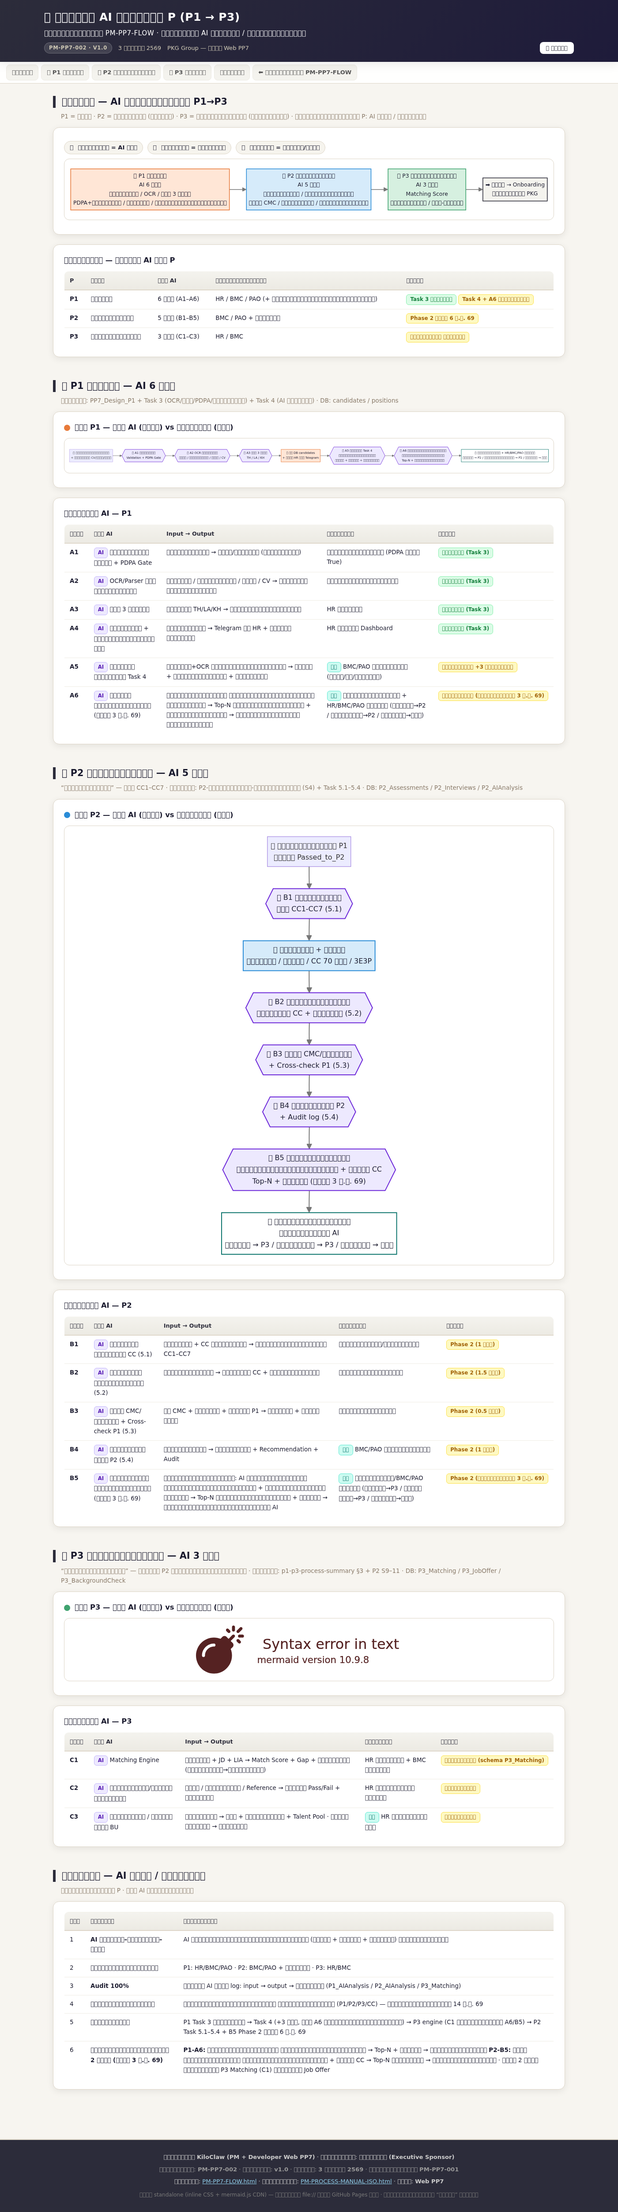
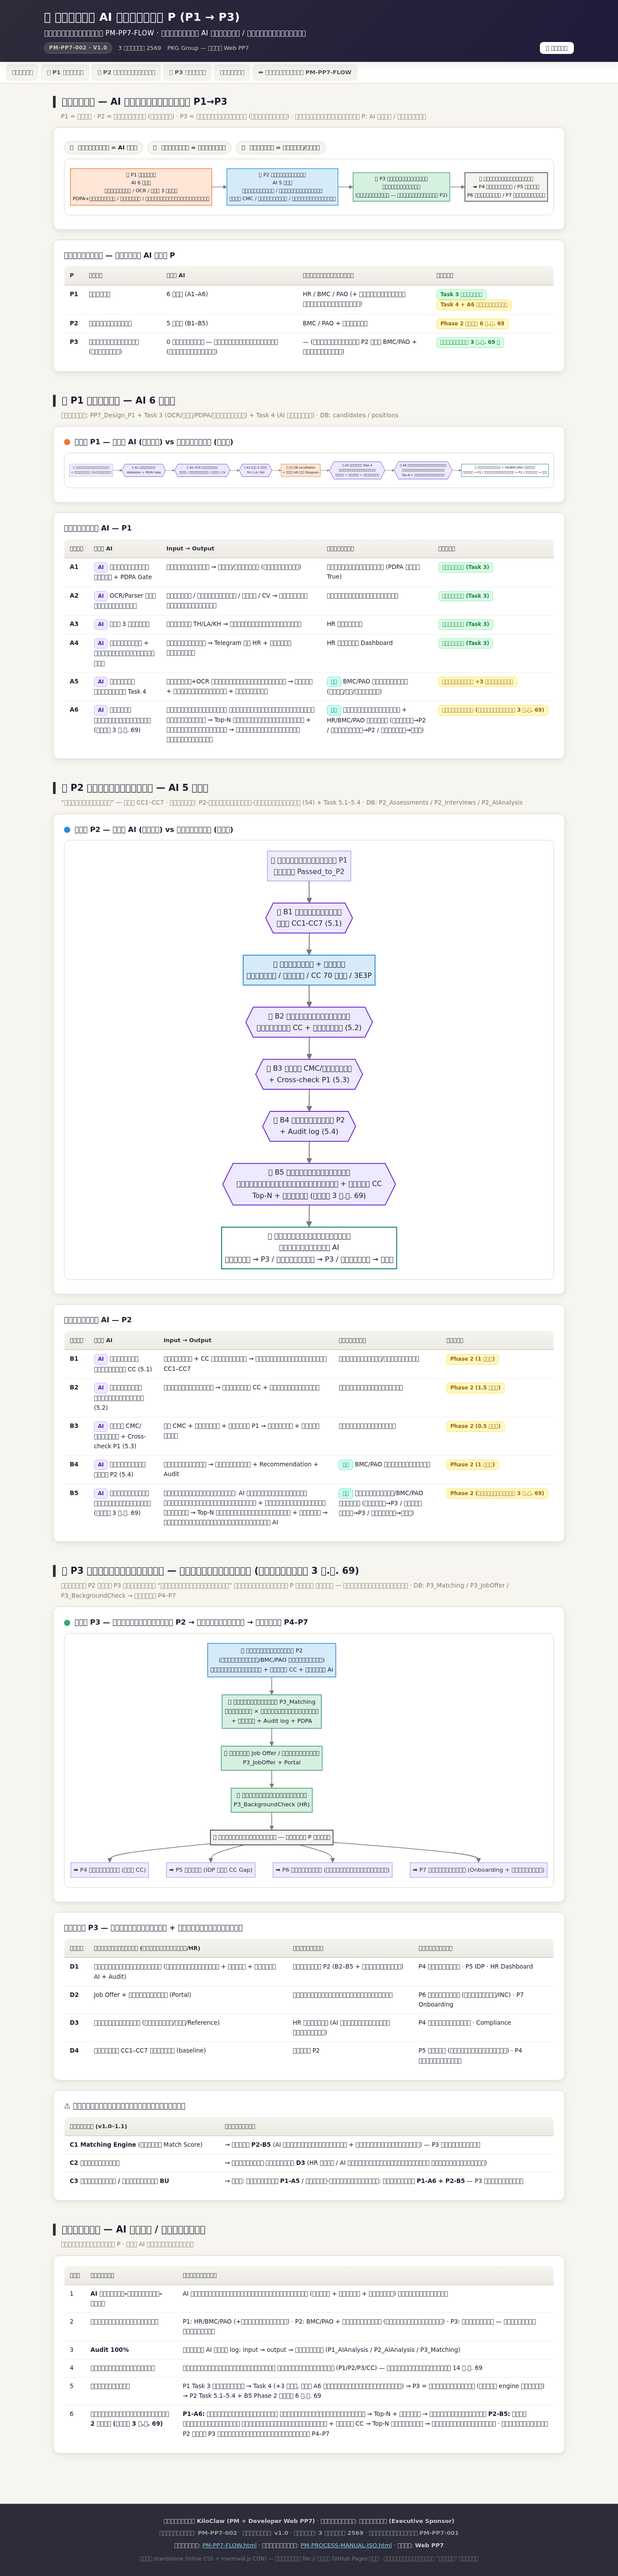
refactor(flow): นิยาม P3 ใหม่ (สั่งพี่ปกรณ์ 3 ต.ค. 69) — จบ P2 แล้ว P3 เป็นเพียงบันทึกผลลงฐานเพื่อใช้ใน P4-P7 ตัด C1-C3 ออกจากจุดตัดสิน (Matching→B5, ปิด→A5, ส่งต่อ→A6/B5) อัปเดต PM-PP7-FLOW + AI-POINTS v1.2 + PNG

Changed region(s): [[0.0, 0.0, 1.0, 0.9974]]

diff --git a/docs/PM-PP7-AI-POINTS.html b/docs/PM-PP7-AI-POINTS.html
@@ -88,9 +88,9 @@ tbody tr:last-child td{border-bottom:0;}
 flowchart LR
     P1["🟠 P1 แสวงหา<br/>AI 6 จุด<br/>ตรวจฟอร์ม / OCR / แปล 3 ภาษา<br/>PDPA+แจ้งเตือน / คัดกรอง / แนะนำตำแหน่งทางเลือก"]
     P2["🔵 P2 หยั่งประเมิน<br/>AI 5 จุด<br/>สร้างคำถาม / วิเคราะห์บันทึก<br/>สรุป CMC / ร่างรายงาน / แนะนำบทบาทใหม่"]
-    P3["🟢 P3 จับคู่คนกับงาน<br/>AI 3 จุด<br/>Matching Score<br/>ตรวจประวัติ / ปิด-ส่งต่อ"]
+    P3["🟢 P3 จับคู่คนกับงาน<br/>บันทึกผลลงฐาน<br/>(ไม่ตัดสินใจ — รับผลตัดสินจาก P2)"]
     P1 --> P2 --> P3
-    P3 --> OUT["➡ ผ่าน → Onboarding<br/>เป็นสมาชิก PKG"]
+    P3 --> OUT["📦 ฐานข้อมูลพร้อมใช้<br/>➡ P4 ประเมินผล / P5 พัฒนา<br/>P6 ค่าตอบแทน / P7 คุณภาพชีวิต"]
     style P1 fill:#ffe6d6,stroke:#e87a3a,stroke-width:2px,color:#1a1a2e
     style P2 fill:#d6ebfa,stroke:#2a8cd7,stroke-width:2px,color:#1a1a2e
     style P3 fill:#d6f0e0,stroke:#3fa36f,stroke-width:2px,color:#1a1a2e
@@ -104,7 +104,7 @@ flowchart LR
       <tbody>
         <tr><td><b>P1</b></td><td>แสวงหา</td><td>6 จุด (A1–A6)</td><td>HR / BMC / PAO (+ ผู้สมัครเลือกตำแหน่งทางเลือก)</td><td><span class="tag tag-done">Task 3 ทำแล้ว</span> <span class="tag tag-wait">Task 4 + A6 ออกแบบแล้ว</span></td></tr>
         <tr><td><b>P2</b></td><td>หยั่งประเมิน</td><td>5 จุด (B1–B5)</td><td>BMC / PAO + กรรมการ</td><td><span class="tag tag-wait">Phase 2 หลัง 6 พ.ย. 69</span></td></tr>
-        <tr><td><b>P3</b></td><td>จับคู่คนกับงาน</td><td>3 จุด (C1–C3)</td><td>HR / BMC</td><td><span class="tag tag-wait">ออกแบบแล้ว รอพัฒนา</span></td></tr>
+        <tr><td><b>P3</b></td><td>จับคู่คนกับงาน (บันทึกผล)</td><td>0 จุดตัดสิน — บันทึกผลอย่างเดียว (ระบบอัตโนมัติ)</td><td>— (ผลตัดสินจบที่ P2 โดย BMC/PAO + ทีมสัมภาษณ์)</td><td><span class="tag tag-done">นิยามใหม่ 3 ต.ค. 69 ✅</span></td></tr>
       </tbody>
     </table>
   </div>
@@ -195,39 +195,50 @@ flowchart TD
 
 <!-- P3 -->
 <section id="section-p3">
-  <h2><span class="dot" style="background:var(--p3)"></span>🟢 P3 จับคู่คนกับงาน — AI 3 จุด</h2>
-  <p class="sub">“ประเมินก่อนทำงาน” — คนผ่าน P2 แล้วเหมาะกับงานนี้ไหม · อ้างอิง: p1-p3-process-summary §3 + P2 S9–11 · DB: P3_Matching / P3_JobOffer / P3_BackgroundCheck</p>
+  <h2><span class="dot" style="background:var(--p3)"></span>🟢 P3 จับคู่คนกับงาน — บันทึกผลลงฐาน (นิยามใหม่ 3 ต.ค. 69)</h2>
+  <p class="sub">เมื่อจบ P2 แล้ว P3 เป็นเพียง “บันทึกผลลงฐานข้อมูล” เพื่อนำไปใช้ใน P อื่นๆ ต่อไป — ไม่มีการตัดสินใหม่ · DB: P3_Matching / P3_JobOffer / P3_BackgroundCheck → เชื่อม P4–P7</p>
   <div class="card">
-    <h3><span class="dot" style="background:var(--p3)"></span>ผัง P3 — จุด AI (ม่วง) vs คนตัดสิน (ขาว)</h3>
+    <h3><span class="dot" style="background:var(--p3)"></span>ผัง P3 — รับผลตัดสินจาก P2 → บันทึกลงฐาน → ส่งต่อ P4–P7</h3>
     <div class="mermaid">
 flowchart TD
-    A["📥 รับจาก P2<br/>โปรไฟล์ + คะแนน CC"]
-    B{{"🤖 C1 Matching Engine<br/>ทักษะ 30 + CC 40<br/>ประสบการณ์ 20 + LIA 10"}}
-    C{"Match Score?"}
-    D["📄 สร้าง Job Offer<br/>Portal ตอบรับออนไลน์"]
-    E["🔄 เหมาะ BU อื่น<br/>ส่งต่ออัตโนมัติ"]
-    X["🔚 ปิดใบสมัคร<br/>แจ้งผลสุภาพ + Talent Pool"]
-    F{{"🤖 C2 ตรวจประวัติ<br/>การศึกษา / งาน / Reference"}}
-    G["👥 HR/BMC อนุมัติสุดท้าย<br/>→ Onboarding"]}
-    A --> B --> C
-    C -->|สูง| D
-    C -->|เหมาะ BU อื่น| E
-    C -->|ต่ำ| X
-    D --> F --> G
-    style B fill:#ede9fe,stroke:#6d28d9,stroke-width:2px,color:#1a1a2e
-    style F fill:#ede9fe,stroke:#6d28d9,stroke-width:2px,color:#1a1a2e
-    style G fill:#ffffff,stroke:#0f766e,stroke-width:2px,color:#1a1a2e
+    A["📥 รับผลตัดสินจาก P2<br/>(ทีมสัมภาษณ์/BMC/PAO ตัดสินแล้ว)<br/>ตำแหน่งสุดท้าย + คะแนน CC + เหตุผล AI"]
+    B["📝 บันทึกผลลงฐาน P3_Matching<br/>ผู้สมัคร × ตำแหน่งที่จับคู่<br/>+ คะแนน + Audit log + PDPA"]
+    C["📄 บันทึก Job Offer / สถานะตอบรับ<br/>P3_JobOffer + Portal"]
+    D["🔍 บันทึกผลตรวจประวัติ<br/>P3_BackgroundCheck (HR)"]
+    E["📦 ฐานข้อมูลพร้อมใช้ — ส่งต่อ P อื่นๆ"]
+    F["➡ P4 ประเมินผล (ตาม CC)"]
+    G["➡ P5 พัฒนา (IDP ตาม CC Gap)"]
+    H["➡ P6 ค่าตอบแทน (โครงสร้างเงินเดือน)"]
+    I["➡ P7 คุณภาพชีวิต (Onboarding + สวัสดิการ)"]
+    A --> B --> C --> D --> E
+    E --> F & G & H & I
+    style A fill:#d6ebfa,stroke:#2a8cd7,stroke-width:2px,color:#1a1a2e
+    style B fill:#d6f0e0,stroke:#3fa36f,stroke-width:2px,color:#1a1a2e
+    style C fill:#d6f0e0,stroke:#3fa36f,stroke-width:2px,color:#1a1a2e
     style D fill:#d6f0e0,stroke:#3fa36f,stroke-width:2px,color:#1a1a2e
+    style E fill:#f4f3ee,stroke:#2c2c3a,stroke-width:2px,color:#1a1a2e
     </div>
   </div>
   <div class="card">
-    <h3>ตารางจุด AI — P3</h3>
+    <h3>ตาราง P3 — สิ่งที่บันทึก + ผู้ใช้ข้อมูลต่อ</h3>
     <table>
-      <thead><tr><th>รหัส</th><th>จุด AI</th><th>Input → Output</th><th>คนตัดสิน</th><th>สถานะ</th></tr></thead>
+      <thead><tr><th>รหัส</th><th>สิ่งที่บันทึก (ระบบอัตโนมัติ/HR)</th><th>ข้อมูลจาก</th><th>นำไปใช้ใน</th></tr></thead>
       <tbody>
-        <tr><td><b>C1</b></td><td><span class="tag tag-ai">AI</span> Matching Engine</td><td>โปรไฟล์ + JD + LIA → Match Score + Gap + คำแนะนำ (เหมาะสมมาก→ไม่เหมาะสม)</td><td>HR ดูประกอบ + BMC อนุมัติ</td><td><span class="tag tag-wait">ออกแบบแล้ว (schema P3_Matching)</span></td></tr>
-        <tr><td><b>C2</b></td><td><span class="tag tag-ai">AI</span> ตรวจประวัติ/เอกสารเบื้องต้น</td><td>วุฒิ / ประวัติงาน / Reference → ผลตรวจ Pass/Fail + หมายเหตุ</td><td>HR ตรวจซ้ำเคสสำคัญ</td><td><span class="tag tag-wait">ออกแบบแล้ว</span></td></tr>
-        <tr><td><b>C3</b></td><td><span class="tag tag-ai">AI</span> ปิดใบสมัคร / ส่งต่อข้าม BU</td><td>คะแนนต่ำ → ปิด + แจ้งผลสุภาพ + Talent Pool · เหมาะที่อื่น → ใบส่งต่อ</td><td><span class="tag tag-human">คน</span> HR ยืนยันก่อนปิด</td><td><span class="tag tag-wait">ออกแบบแล้ว</span></td></tr>
+        <tr><td><b>D1</b></td><td>ผลการจับคู่คนกับงาน (ตำแหน่งสุดท้าย + คะแนน + เหตุผล AI + Audit)</td><td>ผลตัดสิน P2 (B2–B5 + ทีมสัมภาษณ์)</td><td>P4 ประเมินผล · P5 IDP · HR Dashboard</td></tr>
+        <tr><td><b>D2</b></td><td>Job Offer + สถานะตอบรับ (Portal)</td><td>โครงสร้างค่าตอบแทนที่อนุมัติ</td><td>P6 ค่าตอบแทน (เงินเดือน/INC) · P7 Onboarding</td></tr>
+        <tr><td><b>D3</b></td><td>ผลตรวจประวัติ (การศึกษา/งาน/Reference)</td><td>HR ตรวจสอบ (AI ช่วยตรวจเอกสารเบื้องต้น)</td><td>P4 เครดิตสมาชิก · Compliance</td></tr>
+        <tr><td><b>D4</b></td><td>โปรไฟล์ CC1–CC7 วันเข้า (baseline)</td><td>คะแนน P2</td><td>P5 พัฒนา (เทียบกับเป้าหมาย) · P4 ประเมินรายปี</td></tr>
+      </tbody>
+    </table>
+  </div>
+  <div class="card">
+    <h3>⚠ การเปลี่ยนแปลงจากนิยามเดิม</h3>
+    <table>
+      <thead><tr><th>จุดเดิม (v1.0–1.1)</th><th>ย้ายไปที่</th></tr></thead>
+      <tbody>
+        <tr><td><b>C1 Matching Engine</b> (คำนวณ Match Score)</td><td>→ รวมใน <b>P2-B5</b> (AI ประมวลหลังสัมภาษณ์ + ทีมสัมภาษณ์พิจารณา) — P3 แค่บันทึกผล</td></tr>
+        <tr><td><b>C2 ตรวจประวัติ</b></td><td>→ เหลือเป็น <b>บันทึกผล D3</b> (HR ตรวจ / AI ช่วยตรวจเอกสารเบื้องต้น ไม่ใช่จุดตัดสิน)</td></tr>
+        <tr><td><b>C3 ปิดใบสมัคร / ส่งต่อข้าม BU</b></td><td>→ ปิด: ตัดสินที่ <b>P1-A5</b> / ส่งต่อ-แนะนำตำแหน่ง: ตัดสินที่ <b>P1-A6 + P2-B5</b> — P3 ไม่ตัดสินใจ</td></tr>
       </tbody>
     </table>
   </div>
@@ -242,11 +253,11 @@ flowchart TD
       <thead><tr><th>ข้อ</th><th>หลักการ</th><th>รายละเอียด</th></tr></thead>
       <tbody>
         <tr><td>1</td><td><b>AI ช่วยคัด–วิเคราะห์–สรุป</b></td><td>AI ทำหน้าที่เตรียมข้อมูลพร้อมตัดสิน (คะแนน + เหตุผล + หลักฐาน) ไม่ตัดสินแทนคน</td></tr>
-        <tr><td>2</td><td><b>คนตัดสินสุดท้ายเสมอ</b></td><td>P1: HR/BMC/PAO · P2: BMC/PAO + กรรมการ · P3: HR/BMC</td></tr>
+        <tr><td>2</td><td><b>คนตัดสินสุดท้ายเสมอ</b></td><td>P1: HR/BMC/PAO (+ผู้สมัครเลือก) · P2: BMC/PAO + ทีมสัมภาษณ์ (จุดตัดสินสุดท้าย) · P3: ไม่ตัดสิน — บันทึกผลอย่างเดียว</td></tr>
         <tr><td>3</td><td><b>Audit 100%</b></td><td>ทุกจุด AI เก็บ log: input → output → คนยืนยัน (P1_AIAnalysis / P2_AIAnalysis / P3_Matching)</td></tr>
         <tr><td>4</td><td><b>ข้อความภายนอกสุภาพ</b></td><td>แจ้งผลไม่ผ่านใช้ภาษาอบอุ่น ไม่ใช้ศัพท์ภายใน (P1/P2/P3/CC) — ตามรูปแบบที่กำหนด 14 ก.ค. 69</td></tr>
-        <tr><td>5</td><td><b>ลำดับพัฒนา</b></td><td>P1 Task 3 เสร็จแล้ว → Task 4 (+3 วัน, รวม A6 แนะนำตำแหน่งทางเลือก) → P3 engine (C1 รับช่วงต่อจาก A6/B5) → P2 Task 5.1–5.4 + B5 Phase 2 หลัง 6 พ.ย. 69</td></tr>
-        <tr><td>6</td><td><b>แนะนำตำแหน่งทางเลือก 2 ช่วง (ใหม่ 3 ต.ค. 69)</b></td><td><b>P1-A6:</b> หลังคัดกรองคุณสมบัติ เทียบตำแหน่งว่างทั้งหมด → Top-N + เหตุผล → ผู้สมัครเลือกเอง <b>P2-B5:</b> หลังสัมภาษณ์ให้คะแนน เทียบตำแหน่งว่างทั้งหมด + คะแนน CC → Top-N บทบาทใหม่ → ทีมสัมภาษณ์พิจารณา · ทั้ง 2 ช่วงส่งต่อเข้า P3 Matching (C1) เพื่อออก Job Offer</td></tr>
+        <tr><td>5</td><td><b>ลำดับพัฒนา</b></td><td>P1 Task 3 เสร็จแล้ว → Task 4 (+3 วัน, รวม A6 แนะนำตำแหน่งทางเลือก) → P3 = บันทึกผลลงฐาน (ไม่มี engine ตัดสิน) → P2 Task 5.1–5.4 + B5 Phase 2 หลัง 6 พ.ย. 69</td></tr>
+        <tr><td>6</td><td><b>แนะนำตำแหน่งทางเลือก 2 ช่วง (ใหม่ 3 ต.ค. 69)</b></td><td><b>P1-A6:</b> หลังคัดกรองคุณสมบัติ เทียบตำแหน่งว่างทั้งหมด → Top-N + เหตุผล → ผู้สมัครเลือกเอง <b>P2-B5:</b> หลังสัมภาษณ์ให้คะแนน เทียบตำแหน่งว่างทั้งหมด + คะแนน CC → Top-N บทบาทใหม่ → ทีมสัมภาษณ์พิจารณา · ผลตัดสินจบที่ P2 แล้ว P3 บันทึกผลลงฐานเพื่อใช้ต่อใน P4–P7</td></tr>
       </tbody>
     </table>
   </div>

diff --git a/docs/PM-PP7-FLOW.html b/docs/PM-PP7-FLOW.html
@@ -226,36 +226,32 @@ flowchart TD
 <!-- P3 -->
 <section id="section-p3" class="p3">
   <h2><span class="dot" style="background:var(--p3)"></span>P3 จับคู่คนกับงาน (Match / “ประเมินก่อนทำงาน”)</h2>
-  <p class="sub">PAO + BMC · Web PP7 Tab-04 จับคู่ · สถานะ: ข้อมูลครบ ✅</p>
+  <p class="sub">PAO + BMC · Web PP7 Tab-04 จับคู่ · ⚠ นิยามใหม่ 3 ต.ค. 69: เมื่อจบ P2 แล้ว P3 เป็นเพียง “บันทึกผลลงฐานข้อมูล” เพื่อนำไปใช้ใน P อื่นๆ ต่อไป — จุดตัดสินสุดท้ายอยู่ที่ P2 (ทีมสัมภาษณ์/BMC/PAO)</p>
   <div class="card">
     <h3 class="card-header"><span class="dot" style="background:var(--p3)"></span>P3 — กระบวนการใหม่ (S4 ย่อ)</h3>
     <div class="mermaid">
 flowchart TD
-    A["📥 รับจาก P2 (ผ่าน CC)"] --> B["🤖 AI Matching Engine<br/>ทักษะ 50% + CC 30% + เป้าหมาย 20%"]
-    B --> C["✅ สร้างข้อเสนองาน<br/>(ตำแหน่ง + ค่าตอบแทน + วันเริ่ม)"]
-    C --> D{"ตอบรับ / ปฏิเสธ<br/>ทางออนไลน์ (Portal)"}
-    D -->|ตอบรับ| E["🔍 Background Check<br/>การศึกษา / การทำงาน / Reference"]
-    E --> F["🤖 AI Route ไป Onboarding<br/>+ เชื่อมระบบพี่เลี้ยง"]
-    F --> G["📊 Dashboard สถานะจับคู่"]
-    D -->|ปฏิเสธ| X["🔚 ปิด + บันทึกเหตุผล"]
-    B -.->|เหมาะ BU อื่น| Y["🔄 ส่งต่อข้าม BU<br/>ใบส่งต่ออัตโนมัติ"]
+    A["📥 รับผลตัดสินจาก P2<br/>(ทีมสัมภาษณ์/BMC/PAO ตัดสินแล้ว)<br/>ตำแหน่งสุดท้าย + คะแนน CC + เหตุผล AI"] --> B["📝 บันทึกผลลงฐาน P3_Matching<br/>+ Job Offer + ตอบรับ (Portal)<br/>+ Background Check + Audit log"]
+    B --> C["📦 ฐานข้อมูลพร้อมใช้ — ส่งต่อ P อื่นๆ"]
+    C --> D["➡ P4 ประเมินผล (ตาม CC baseline)"]
+    C --> E["➡ P5 พัฒนา (IDP ตาม CC Gap)"]
+    C --> F["➡ P6 ค่าตอบแทน (โครงสร้างเงินเดือน)"]
+    C --> G["➡ P7 คุณภาพชีวิต (Onboarding + พี่เลี้ยง)"]
     style B fill:#d6f0e0,stroke:#3fa36f,stroke-width:2px
-    style B fill:#d6f0e0,stroke:#3fa36f,stroke-width:2px
-    style C fill:#d6f0e0,stroke:#3fa36f
-    style F fill:#d6f0e0,stroke:#3fa36f
+    style C fill:#d6f0e0,stroke:#3fa36f,stroke-width:2px
 </div>
   </div>
   <div class="card">
     <h3>ตารางขั้นตอน P3 — รายละเอียดจากบท 2.3.1 (PM-PP7-001)</h3>
     <table>
-      <thead><tr><th>ขั้น</th><th>กิจกรรม</th><th>ผู้รับผิดชอบ</th><th>เอกสาร / บันทึกคุณภาพ</th></tr></thead>
+      <thead><tr><th>ขั้น</th><th>กิจกรรม (บันทึกผล — ไม่ตัดสินใหม่)</th><th>ผู้รับผิดชอบ</th><th>เอกสาร / บันทึกคุณภาพ</th></tr></thead>
       <tbody>
-        <tr><td>1</td><td>AI จับคู่คุณสมบัติกับตำแหน่ง (Matching Score 50/30/20)</td><td>ระบบ AI</td><td>P3_Matching + LIA Compatibility</td></tr>
-        <tr><td>2</td><td>ตรวจสอบประวัติ (Background Check — การศึกษา / งาน / Reference)</td><td>HR</td><td>P3_BackgroundCheck</td></tr>
-        <tr><td>3</td><td>ระบบสร้างข้อเสนองาน (ตำแหน่ง + ค่าตอบแทนจากโครงสร้างที่อนุมัติ)</td><td>ระบบ</td><td>P3_JobOffer (เชื่อมโครงสร้างเงินเดือน)</td></tr>
+        <tr><td>1</td><td>บันทึกผลการจับคู่จาก P2 (ตำแหน่งสุดท้าย + คะแนน CC + เหตุผล AI + Audit)</td><td>ระบบอัตโนมัติ</td><td>P3_Matching + LIA Compatibility</td></tr>
+        <tr><td>2</td><td>บันทึกผลตรวจประวัติ (Background Check — การศึกษา / งาน / Reference)</td><td>HR</td><td>P3_BackgroundCheck</td></tr>
+        <tr><td>3</td><td>บันทึกข้อเสนองาน (ตำแหน่ง + ค่าตอบแทนจากโครงสร้างที่อนุมัติ)</td><td>ระบบ</td><td>P3_JobOffer (เชื่อมโครงสร้างเงินเดือน → P6)</td></tr>
         <tr><td>4</td><td>ผู้สมัครตอบรับ/ปฏิเสธออนไลน์ (Portal)</td><td>ผู้สมัคร</td><td>Portal Status + Audit Log</td></tr>
-        <tr><td>5</td><td>AI Route ไป Onboarding (เชื่อม WI-011 + ระบบพี่เลี้ยง)</td><td>ระบบ AI</td><td>ONBOARDING + Auto-notify</td></tr>
-        <tr><td>6</td><td>Dashboard ติดตามสถานะจับคู่ (Funnel + Audit Log)</td><td>ทุกบทบาท</td><td>Dashboard P3 (Web PP7)</td></tr>
+        <tr><td>5</td><td>Route ไป Onboarding อัตโนมัติ (เชื่อม WI-011 + ระบบพี่เลี้ยง → P7)</td><td>ระบบ</td><td>ONBOARDING + Auto-notify</td></tr>
+        <tr><td>6</td><td>Dashboard สถานะจับคู่ — ฐานข้อมูลพร้อมใช้ส่งต่อ P4–P7 (Funnel + Audit Log)</td><td>ทุกบทบาท</td><td>Dashboard P3 (Web PP7)</td></tr>
       </tbody>
     </table>
   </div>
